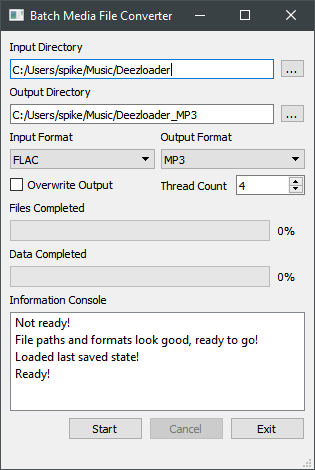
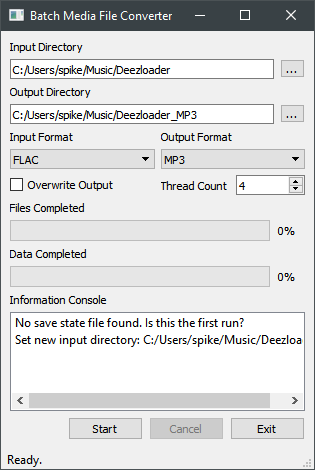
Improve status and console message handling

diff --git a/application.py b/application.py
@@ -1,9 +1,10 @@
 #! /usr/bin/env python3
 # -*- coding: utf-8 -*-
 from PyQt5 import QtWidgets
-from interface import Ui_batch_media_file_converter
 from json import load, dump
+from interface import Ui_batch_media_file_converter
 from utils import is_path_exists, is_path_exists_or_creatable, open_directory_picker
+
 import sys
 
 # Constant to represent the name of the save state file
@@ -68,7 +69,7 @@ class Interface(Ui_batch_media_file_converter):
     def exit(self):
         """Simple exit function to say "Exit." when the button is pushed."""
         self.allow_changes(False)
-        self.push_status("Exit.")
+        self.push_both_message("Exit application.")
 
         exit()  # Finally exit the application
 
@@ -79,7 +80,7 @@ class Interface(Ui_batch_media_file_converter):
 
         if input_directory_value:  # If the directory is not blank or not None
             self.input_directory_edit.setText(input_directory_value)
-            self.push_status("Set new input directory: " + input_directory_value, 5000)
+            self.push_console_message("Set new input directory: " + input_directory_value)
 
     def pick_output_directory(self):
         """Open the file picker, get the new value, and set the `output_directory_edit box`
@@ -88,7 +89,7 @@ class Interface(Ui_batch_media_file_converter):
 
         if output_directory_value:  # If the directory is not blank or not None
             self.output_directory_edit.setText(output_directory_value)
-            self.push_status("Set new output directory: " + output_directory_value, 5000)
+            self.push_console_message("Set new output directory: " + output_directory_value)
 
     def update_ready(self):
         """Ensure that a valid path and format is selected for file inputs and outputs, and if they are,
@@ -96,11 +97,11 @@ class Interface(Ui_batch_media_file_converter):
         if (self.validate_input_directory() and self.validate_output_directory()
                 and self.input_format_combo.currentText() and self.output_format_combo.currentText()):
             self.start_button.setEnabled(True)
-            self.push_status("File paths and formats look good, ready to go!", 1000)
+            self.push_status_message("Ready.")
             return True
-        else:  # Something isn't valid, say that in the log and return
+        else:  # Something isn't valid, say that in the information console and return
             self.start_button.setEnabled(False)
-            self.push_status("Not ready!", 1000)
+            self.push_status_message("Not ready.")
             return False
 
     def validate_input_directory(self):
@@ -112,30 +113,39 @@ class Interface(Ui_batch_media_file_converter):
         path that already exists OR can be created."""
         return is_path_exists_or_creatable(self.output_directory_edit.text())
 
-    def push_status(self, status, msecs=0):
-        """Push a status to the status bar for X milliseconds and add it to the process log."""
-        message_count = self.information_console_list.count()  # Get the number of messages in process log
+    def push_status_message(self, message, msecs=0):
+        """Push a status to the status bar for X milliseconds."""
+        # Show it on the status bar for the time specified if any (by default infinite)
+        self.statusbar.showMessage(message, msecs)
 
-        if message_count:
-            last_message = self.information_console_list.item(message_count - 1)
+    def push_console_message(self, message, force=False):
+        """Push a message to the information console if there is no duplicate and force is `False`."""
 
-            if status != last_message.text():  # Don't send a duplicate
-                self.push_message(status)
-        else:
-            self.push_message(status)
+        if force:  # Push regardless of any duplicate
+            list_item = QtWidgets.QListWidgetItem()
+            list_item.setText(message)
 
-        # Show it on the status bar for the time specified if any
-        self.statusbar.showMessage(status, msecs)
+            self.information_console_list.addItem(list_item)
+            self.information_console_list.scrollToBottom()
 
-    def push_message(self, message):
-        list_item = QtWidgets.QListWidgetItem()
-        list_item.setText(message)
+        else:  # Run the duplicate checking logic here so it isn't done if it isn't needed
+            message_count = self.information_console_list.count()  # Get the number of messages in information console
 
-        # Add the message to the process log and scroll to bottom
-        self.information_console_list.addItem(list_item)
-        self.information_console_list.scrollToBottom()
+            if message_count:
+                last_message = self.information_console_list.item(message_count - 1)
+
+                if message != last_message.text():  # Don't send a duplicate
+                    self.push_console_message(message, force=True)
+            else:
+                self.push_console_message(message, force=True)
+
+    def push_both_message(self, message, msecs=0, force=False):
+        """Push a message to both the status bar and information console."""
+        self.push_status_message(message, msecs)
+        self.push_console_message(message, force)
 
     def save_state(self):
+        """Save the current field values of the interface to the save state file."""
         save_state(self.fetch_state())
 
     def fetch_state(self):
@@ -209,13 +219,13 @@ if __name__ == "__main__":  # The interface has been started through the main fi
     try:  # Try loading the previous state (found in the SAVE_STATE_FILE)
         saved_state = load_state()
         interface.set_state(**saved_state)
-        interface.push_status("Loaded last saved state!")
+        interface.push_console_message("Loaded options from save state file.")
     except (FileNotFoundError, ValueError):
-        interface.push_status("No save state file. Is this the first run?")
+        interface.push_console_message("No save state file found. Is this the first run?")
 
     interface.window.show()  # Show the interface window
 
-    interface.push_status("Ready!", 5000)
+    interface.push_status_message("Interface loaded.", 5000)
 
     # Temporary function to the buttons, disables and enables the interface changes
     interface.start_button.clicked.connect(lambda: interface.set_active(True))

diff --git a/README.md b/README.md
@@ -1,5 +1,5 @@
 # Batch Media File Converter
-#### [batch-media-file-converter](https://github.com/spikespaz/batch-media-file-converter)
+#### [spikespaz/batch-media-file-converter](https://github.com/spikespaz/batch-media-file-converter)
 
 A simple but powerful interface to traverse a directory and convert all of one type of media into another type with a mirrored directory structure in another location using FFMPEG. 
 
